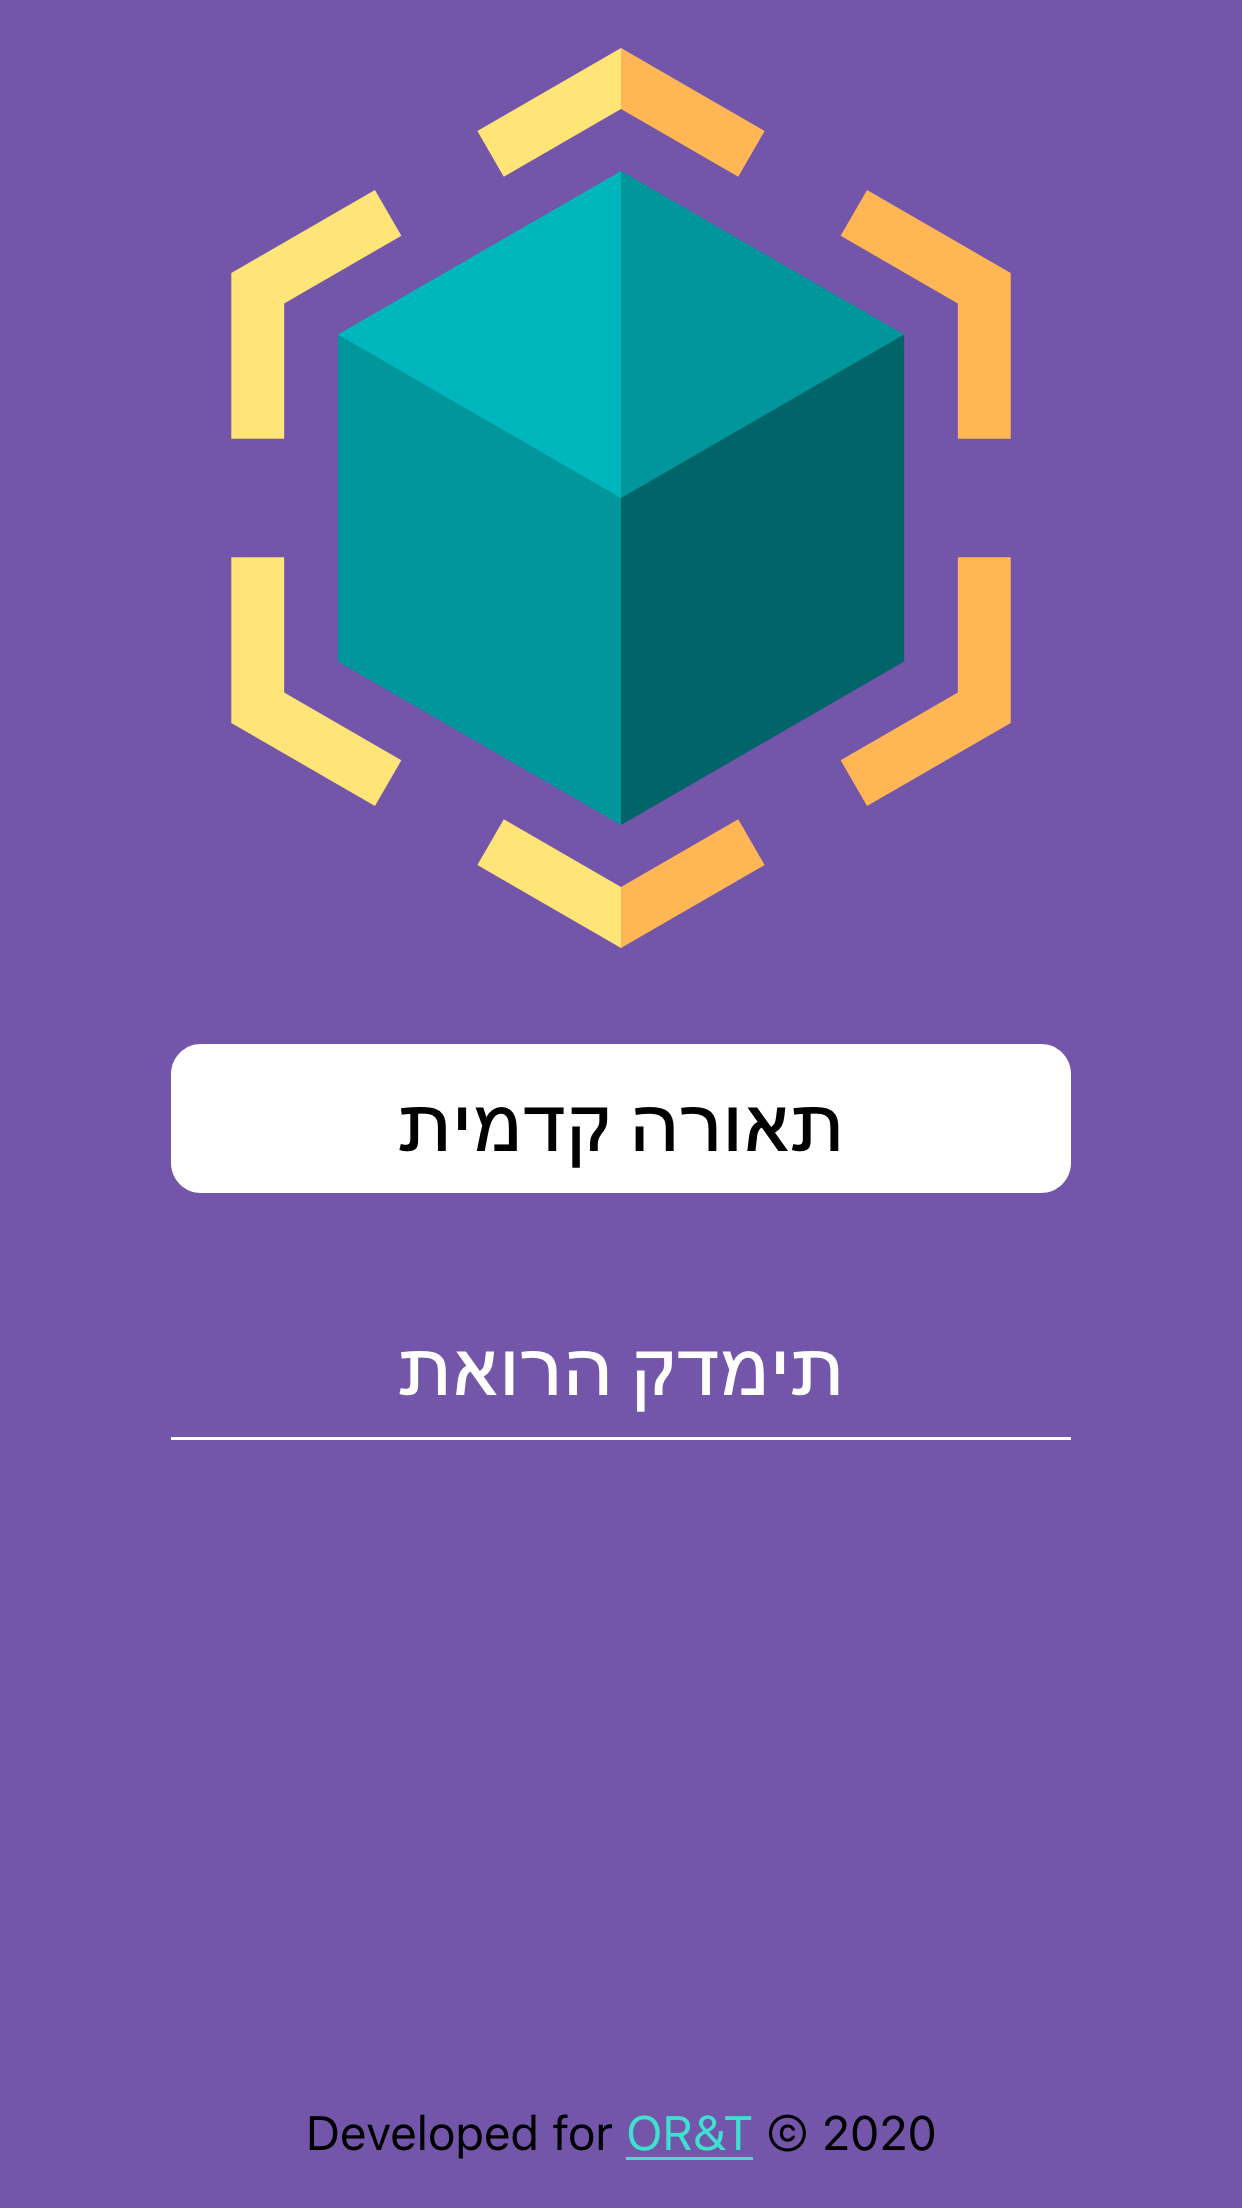
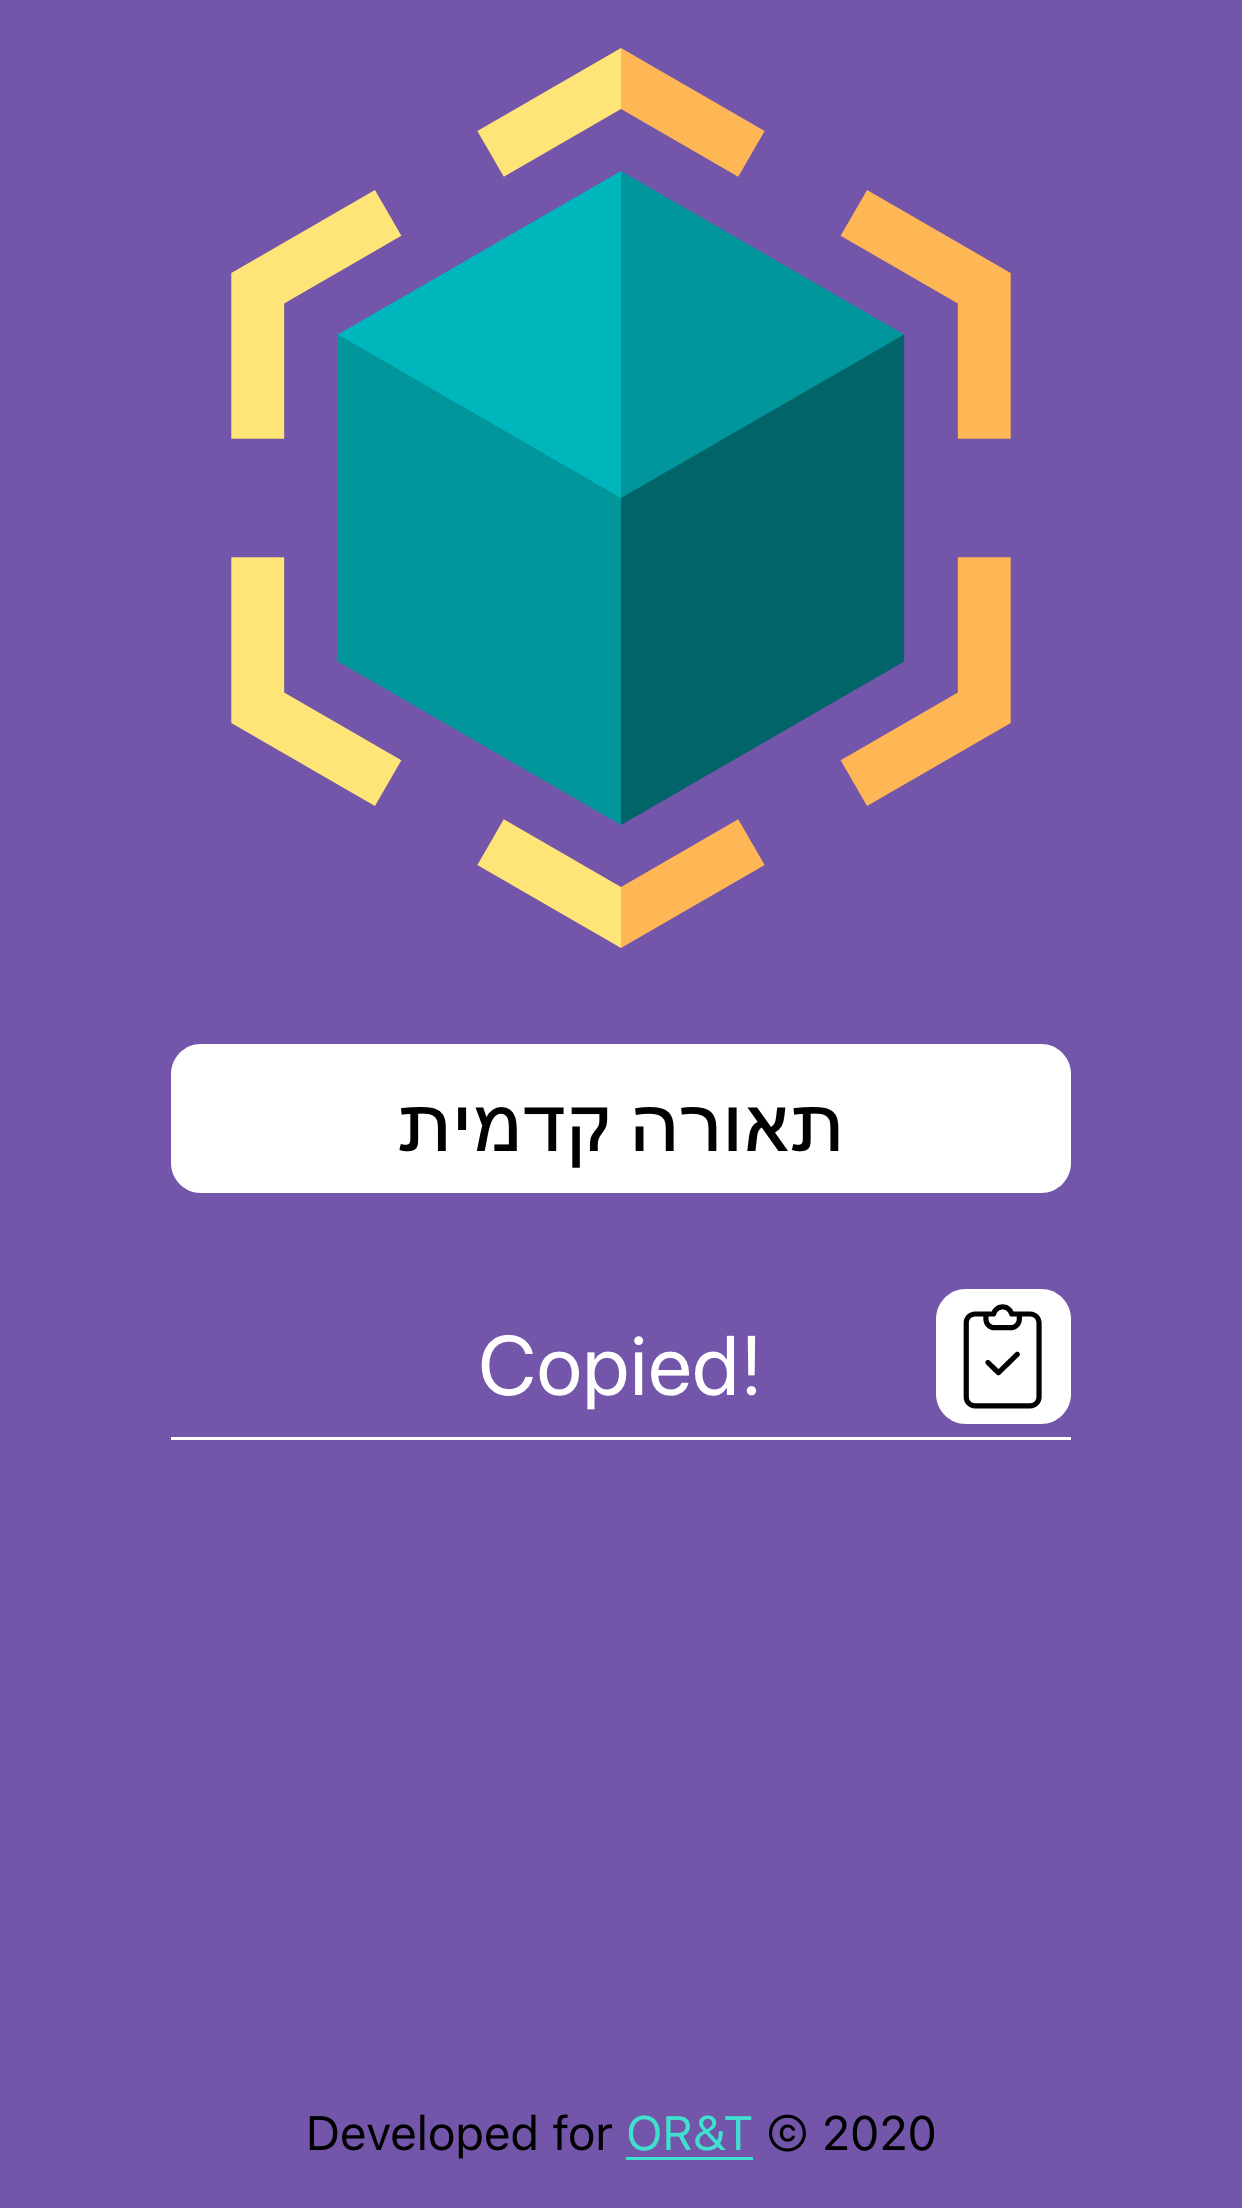
"copy to clipboard" button

Changed region(s): [[0.306, 0.5938, 0.6731, 0.6562], [0.7343, 0.5625, 0.8873, 0.6562]]

diff --git a/src/App.js b/src/App.js
@@ -1,5 +1,6 @@
 import React, { useState, useEffect } from 'react';
 import logo from './media/logo.svg';
+import clipboard from './media/clipboard.svg';
 import './style/style.css';
 
 function App() {
@@ -8,11 +9,9 @@ function App() {
 
   useEffect(() => {
     let str = '';
-
     for (let i = input.length - 1; i >= 0; i--) {
       str += input.charAt(i);
     }
-
     setOutput(str);
   }, [input]);
 
@@ -26,7 +25,18 @@ function App() {
           setInput(e.target.value);
         }}
       />
-      <input className='output' value={output} readOnly />
+      <div className='readonly'>
+        <input className='output' value={output} readOnly />
+        <img
+          src={clipboard}
+          alt='copy to clipboard'
+          onClick={() => {
+            document.querySelector('.output').select();
+            document.execCommand('copy');
+            setOutput('Copied!');
+          }}
+        />
+      </div>
       <footer>
         Developed for{' '}
         <a href='http://orandt.co.il' target='blank'>

diff --git a/src/style/style.scss b/src/style/style.scss
@@ -51,6 +51,21 @@ code {
     border-bottom: 1px solid #fff;
   }
 
+  .readonly {
+    position: relative;
+
+    img {
+      position: absolute;
+      right: 0;
+      width: 45px;
+      padding: 4px;
+      background-color: #fff;
+      border: none;
+      border-radius: 10px;
+      cursor: pointer;
+    }
+  }
+
   footer {
     margin: auto 0 0 0;
     padding: 1rem 0;

diff --git a/src/style/style.css b/src/style/style.css
@@ -59,6 +59,21 @@ code {
   border-bottom: 1px solid #fff;
 }
 
+.app .readonly {
+  position: relative;
+}
+
+.app .readonly img {
+  position: absolute;
+  right: 0;
+  width: 45px;
+  padding: 4px;
+  background-color: #fff;
+  border: none;
+  border-radius: 10px;
+  cursor: pointer;
+}
+
 .app footer {
   margin: auto 0 0 0;
   padding: 1rem 0;
